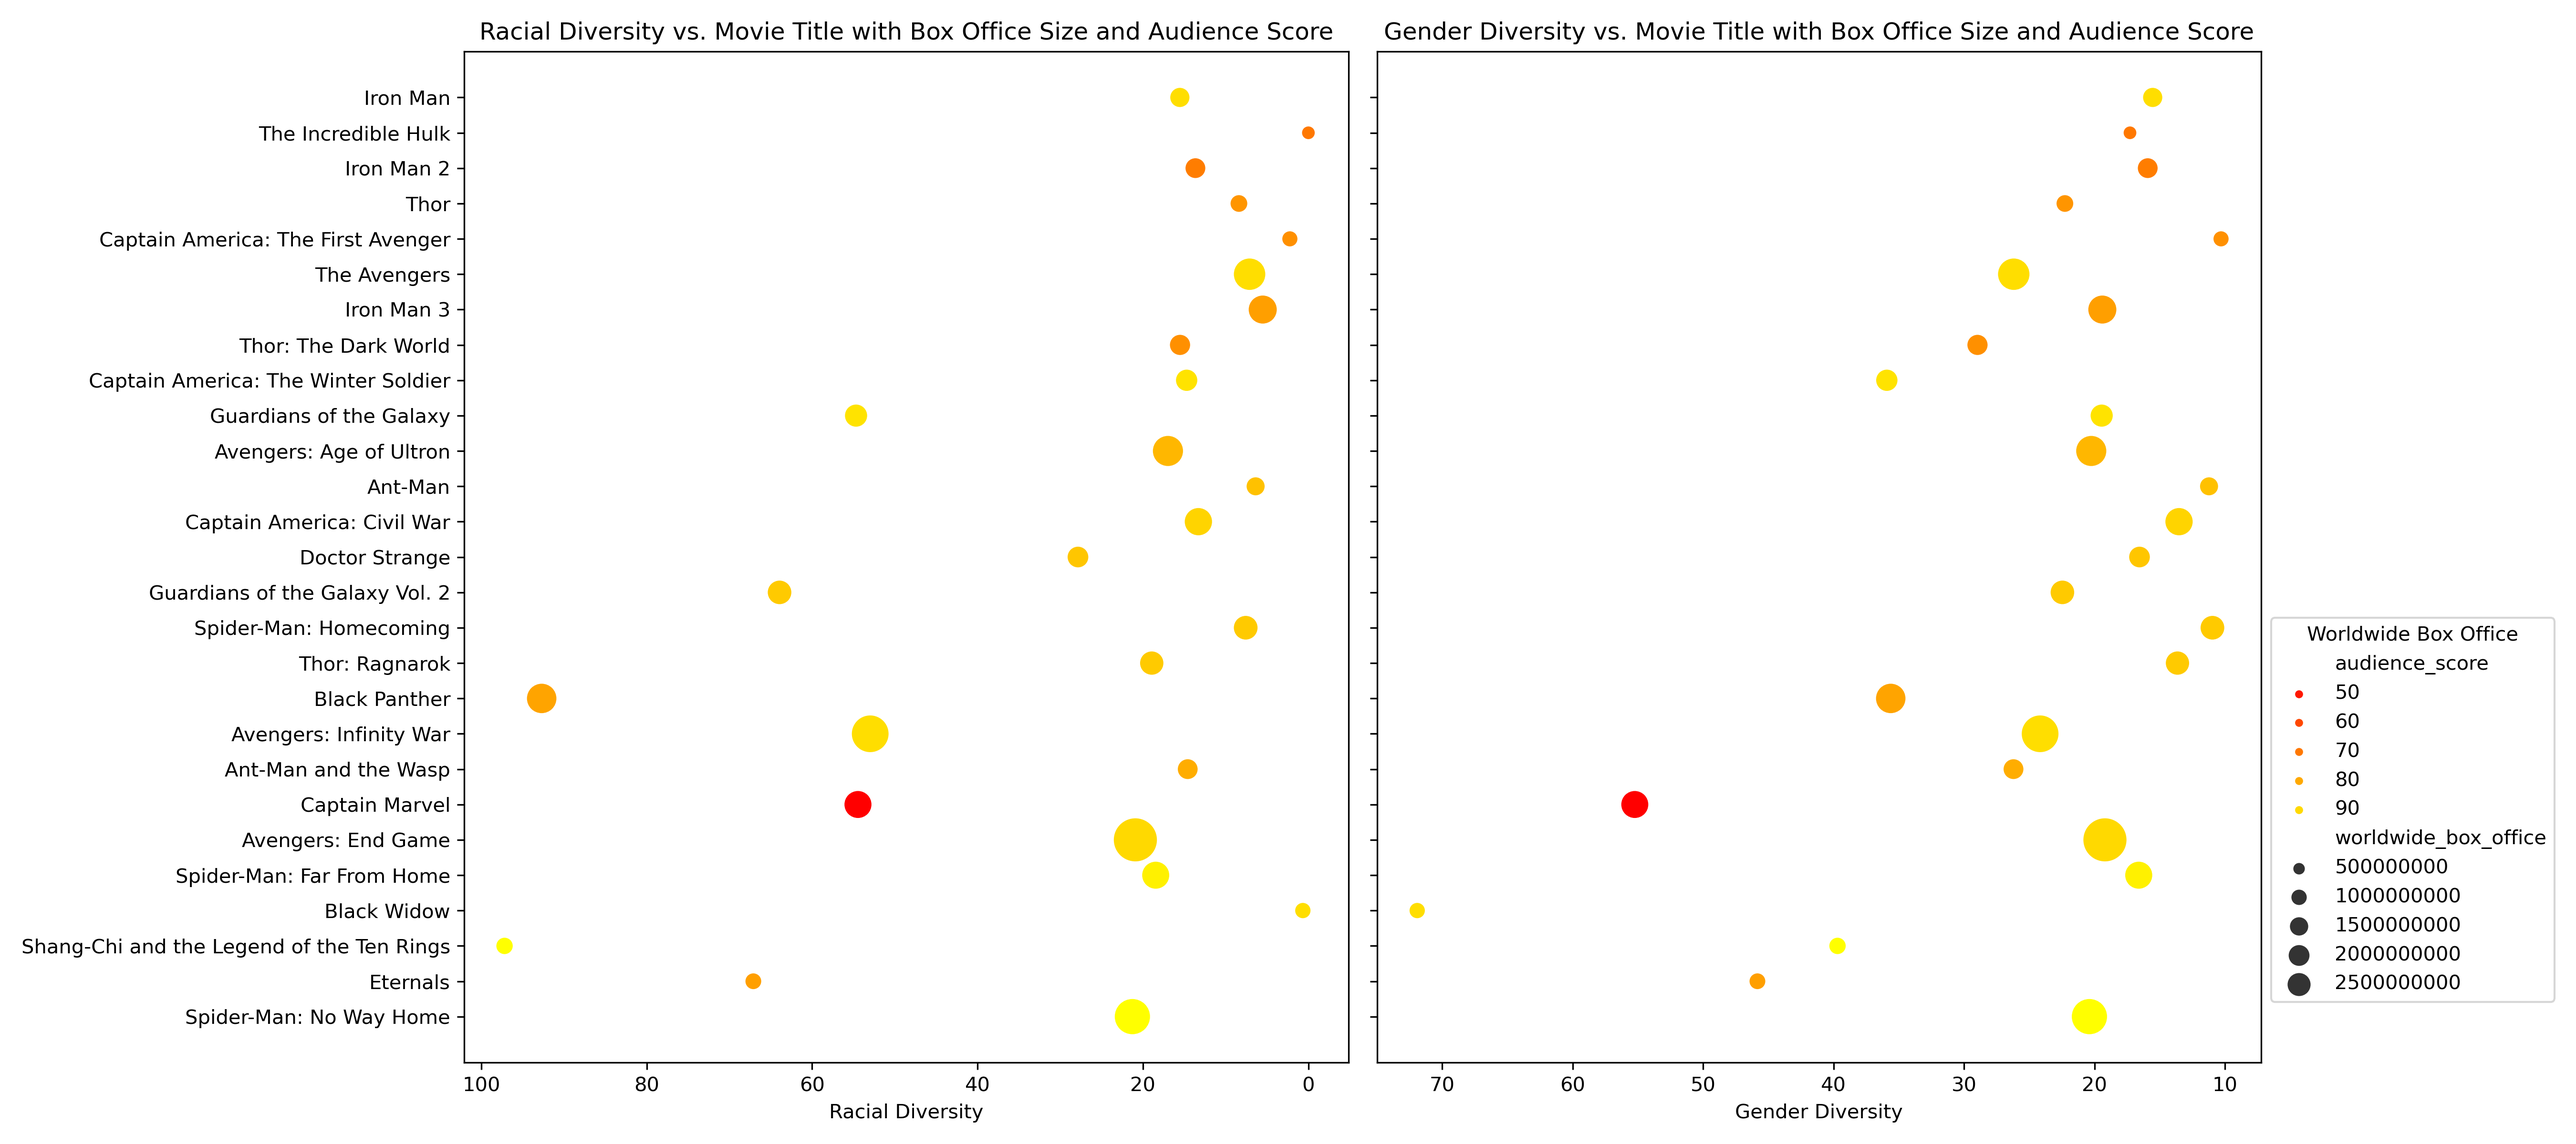
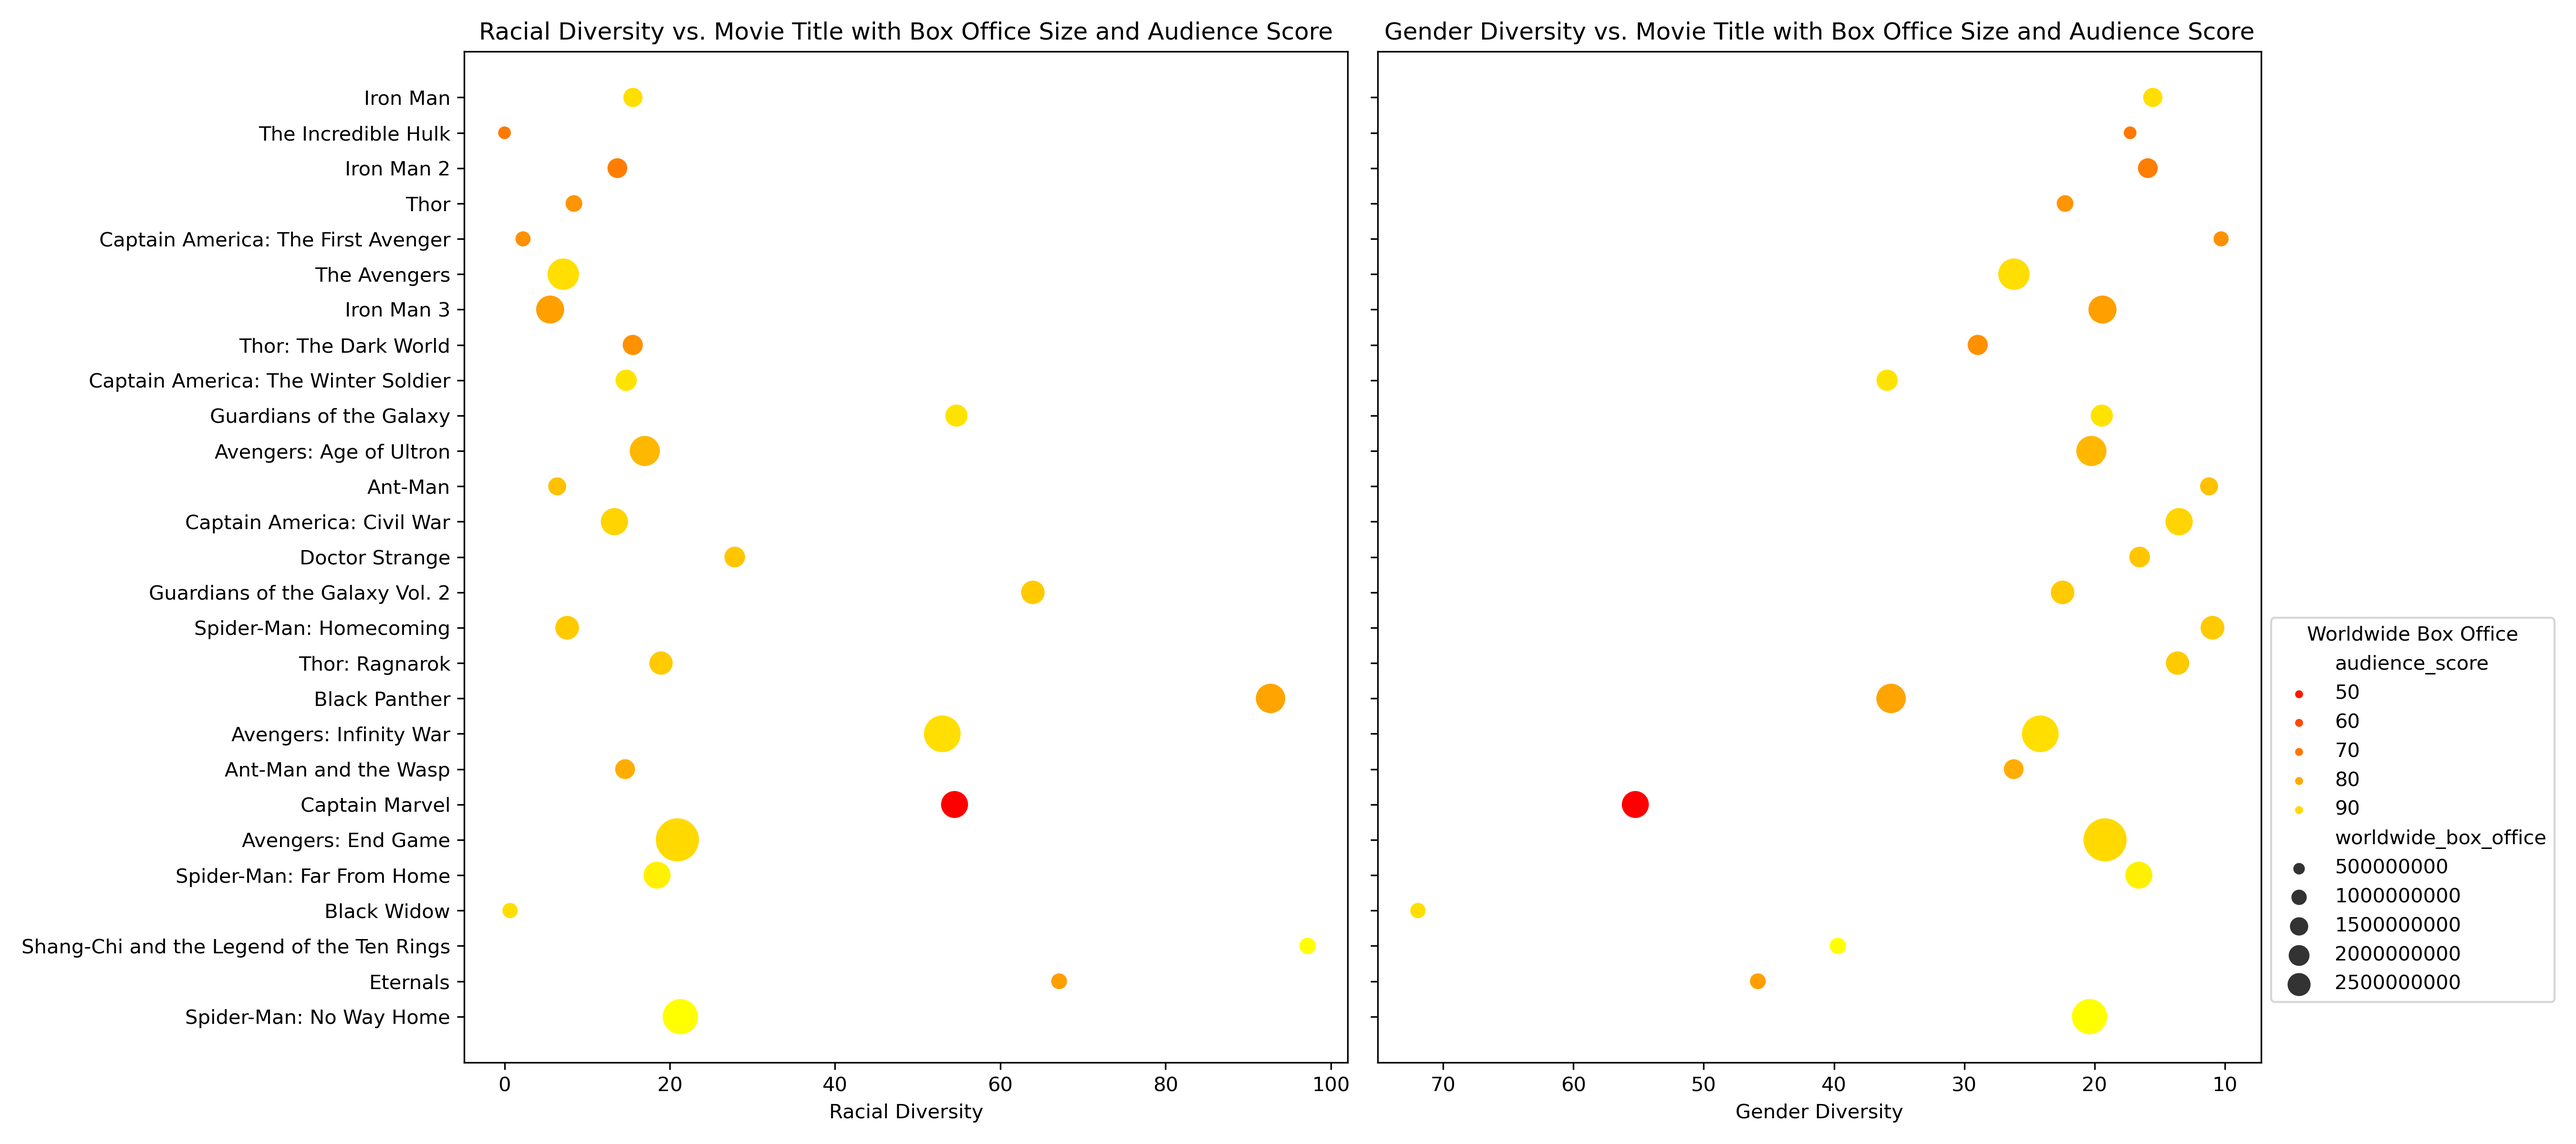
Updated

diff --git a/data_visualization.py b/data_visualization.py
@@ -139,9 +139,10 @@ fig, axes = plt.subplots(1, 2, figsize=(18, 8), sharey=True)
 scatter_gender = sns.scatterplot(ax=axes[1], x='gender_diversity', y='movie_title', size='worldwide_box_office', hue='audience_score',
                                  palette=custom_palette, sizes=(50, 500), size_order=mcu_final_data['worldwide_box_office'].sort_values().unique(),
                                  data=mcu_final_data)
-scatter_gender.invert_xaxis()
+
+scatter_gender.set_xlim(0, 100)
 scatter_gender.set_xlabel('Gender Diversity')
-scatter_gender.set_ylabel('Movie Title')
+scatter_gender.set_ylabel('Movie Title',ha='center')
 scatter_gender.set_title('Gender Diversity vs. Movie Title with Box Office Size and Audience Score')
 scatter_gender.legend(loc='center left', bbox_to_anchor=(1, 0.5), title='Audience Score', markerscale=0.5)
 scatter_gender.legend(title='Worldwide Box Office', loc='center left', bbox_to_anchor=(1, 0.25), markerscale=0.5)
@@ -151,6 +152,8 @@ scatter_gender.legend(title='Worldwide Box Office', loc='center left', bbox_to_a
 scatter_race = sns.scatterplot(ax=axes[0], x='racial_diversity', y='movie_title', size='worldwide_box_office', hue='audience_score',
                                palette=custom_palette, sizes=(50, 500), size_order=mcu_final_data['worldwide_box_office'].sort_values().unique(),
                                data=mcu_final_data)
+scatter_race.invert_xaxis()
+scatter_race.set_xlim(100, 0)
 scatter_race.set_xlabel('Racial Diversity')
 scatter_race.set_ylabel('')
 scatter_race.set_title('Racial Diversity vs. Movie Title with Box Office Size and Audience Score')
